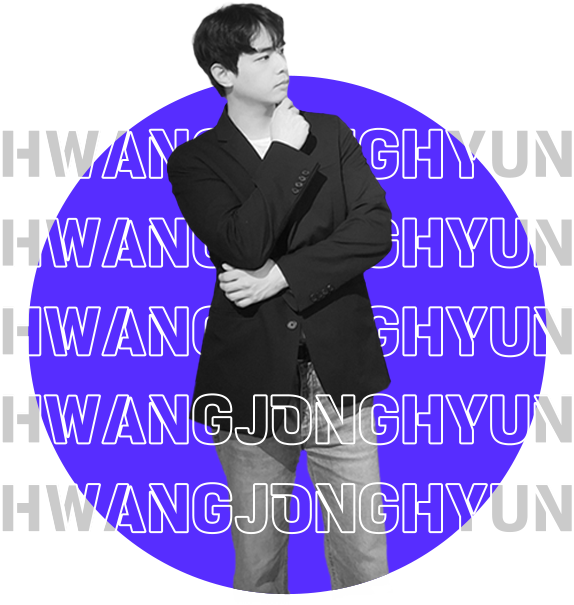
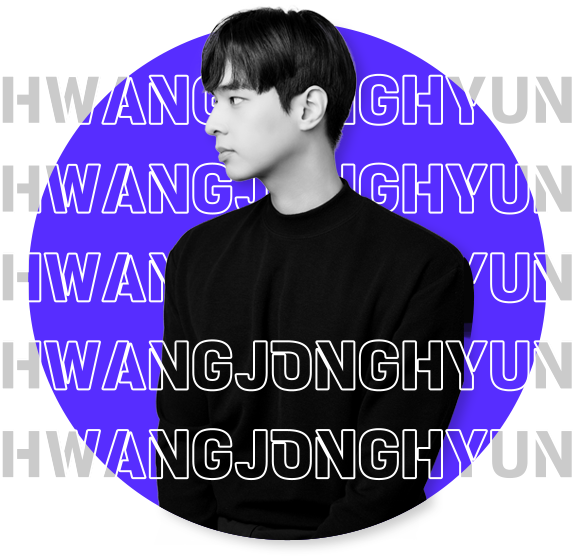
프로필 이미지교체 및 메인 페이지 이미지와 타이틀 수정완료, 자격증 수정 완료

diff --git a/index.html b/index.html
@@ -60,8 +60,8 @@
                         </svg>
                     </a>
                 </div>
-                <h1>끈기와 열정이 있는<br>
-                    웹 퍼블리셔<br> 
+                <h1>안녕하세요,<br>
+                    프론트엔드 개발자<br> 
                     황종현입니다.
                 </h1>
                 <div id="button">
@@ -280,7 +280,7 @@
                 <!-- 좌측 -->
                 <div id="profileL" class="over900">
                     <div>
-                        <img src="img/profileimg.jpg" alt="프로필 사진" width="591px" id="profileImage">
+                        <img src="img/profileimg.jpg" alt="프로필 사진" id="profileImage">
                     </div>
                 </div>
                 <!-- 우측 -->
@@ -422,11 +422,7 @@
                                         <span>2022.04.01<br></span>
                                     </li>
                                     <li class="list certli">
-                                        <span>ACP 포토샵<br></span>
-                                        <span>2022.04.22<br></span>
-                                    </li>
-                                    <li class="list certli">
-                                        <span>ACP 일러스트<br></span>
+                                        <span>ACP 포토샵 / 일러스트<br></span>
                                         <span>2022.04.22<br></span>
                                     </li>
                                     <li class="list certli">
@@ -438,12 +434,16 @@
                                         <span>2022.07.15<br></span>
                                     </li>
                                     <li class="list certli">
-                                        <span>컴퓨터 그래픽스 운용 기능사<br></span>
+                                        <span>컴퓨터그래픽스운용기능사<br></span>
                                         <span>2022.07.01<br></span>
                                     </li>
                                     <li class="list certli">
-                                        <span>웹 디자인 기능사<br></span>
+                                        <span>웹디자인기능사<br></span>
                                         <span>2023.07.05</span>
+                                    </li>
+                                    <li class="list certli">
+                                        <span>정보처리기사 필기 합격<br></span>
+                                        <span>2024.03.13<br></span>
                                     </li>
                                 </ul>
                             </li>

diff --git a/css/style.css b/css/style.css
@@ -71,6 +71,7 @@ body {
     font-weight:bold;
     font-family: "Tenada" , sans-serif , arial;
     margin-bottom: 70px;
+    line-height: 1.2;
 }
 #button > button{
     display: block;
@@ -113,16 +114,16 @@ body {
 /* 액자 */
 #profile > div:first-child > div{
     position: relative;
-    width:460px;
+    width:377px;
     height:566px;
-    border-radius: 40% 40% 0 0;
+    border-radius: 100px;
     overflow:hidden;
-    margin-top:140px;
+    margin-top:180px;
 }
 #profileImage{
-    width: 100%;
+    height: 100%;
     position: absolute;
-    top: -8%;
+    right: 0;
 }
 #profileR{
     width: 610px; 
